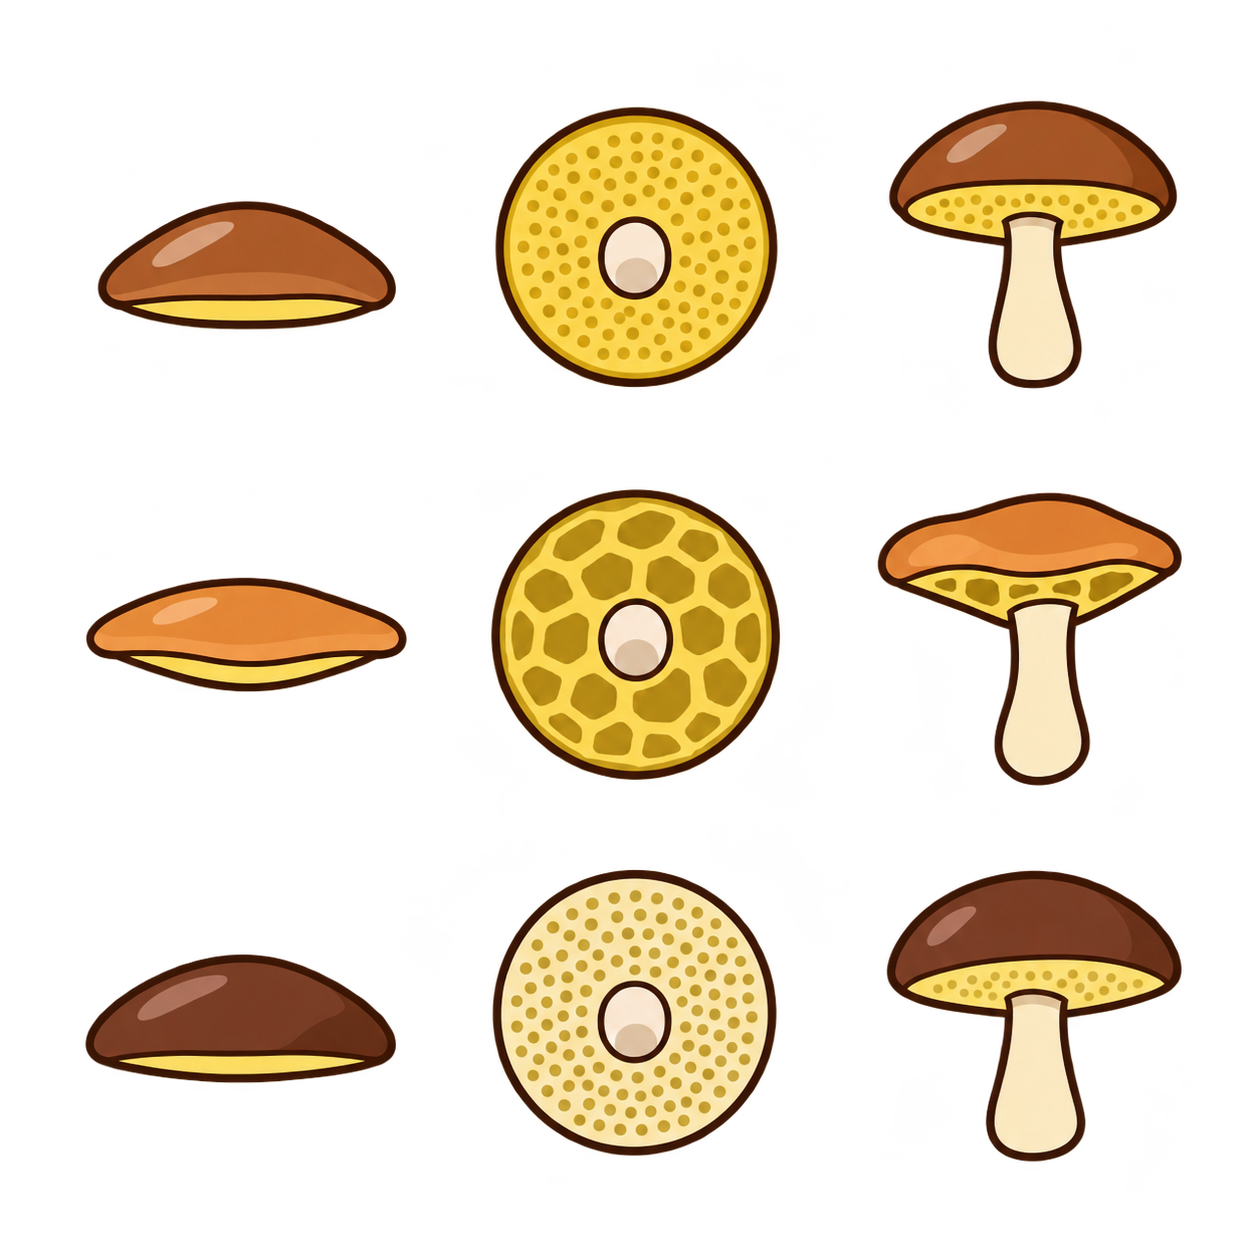
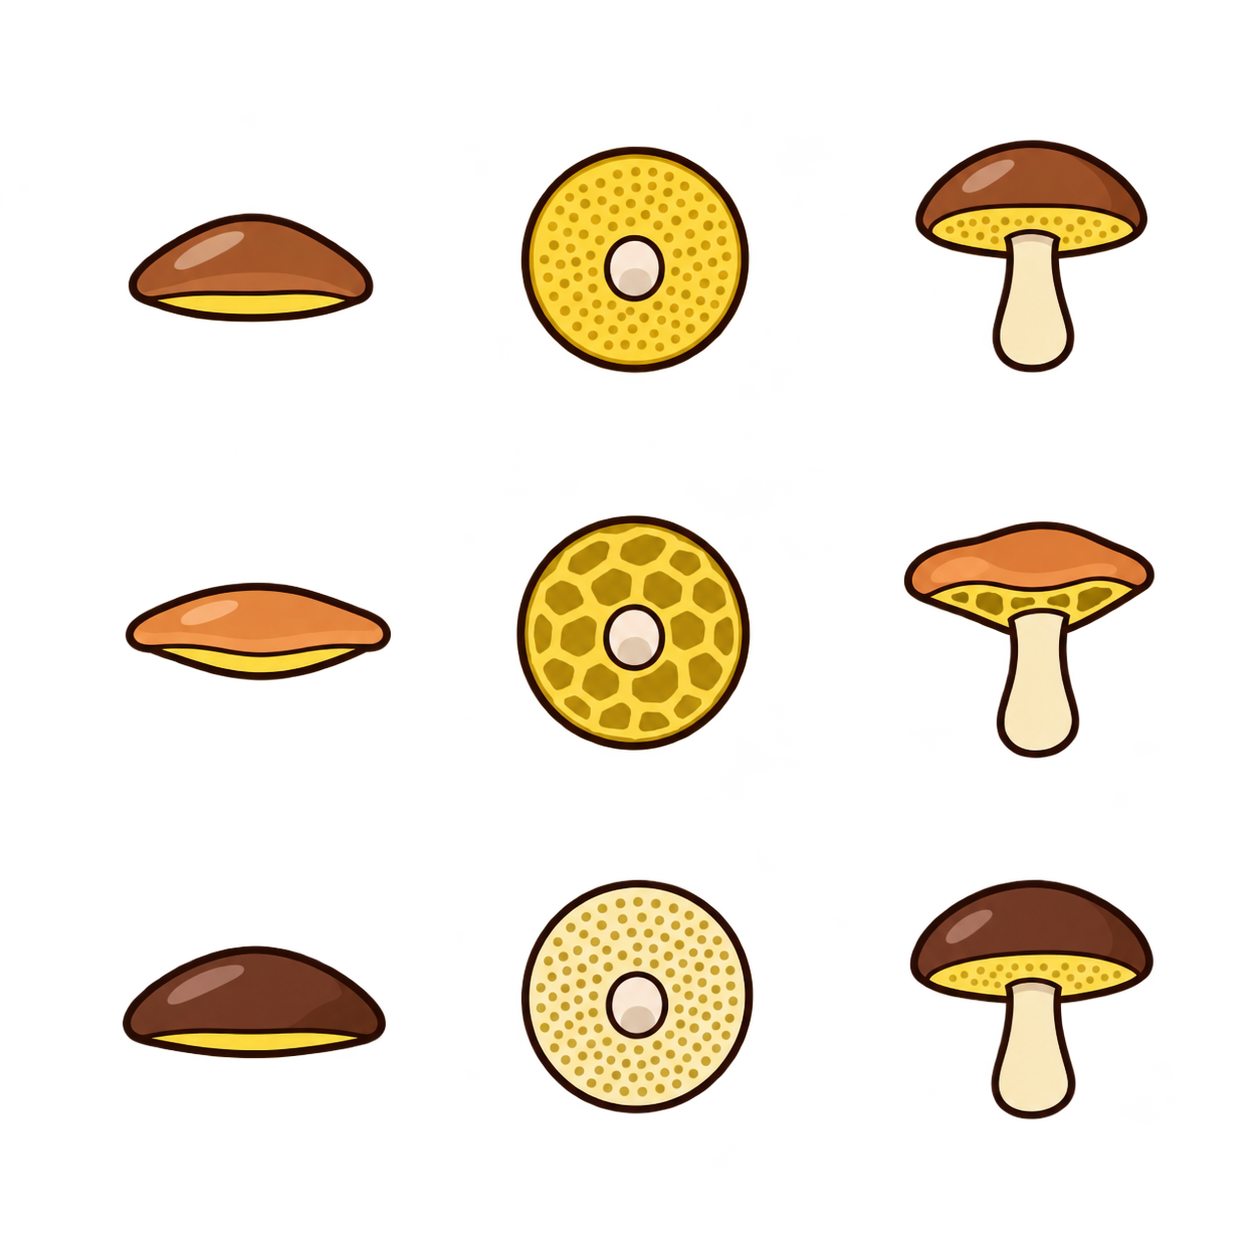
Uniforma la scala della tavola14 e aggiorna subito la bozza

diff --git a/incoming/bozze/STATO.md b/incoming/bozze/STATO.md
@@ -17,7 +17,7 @@ Bozze correnti per revisione. Le versioni definitive sono separate in incoming/i
 | icone/tavola-11.png | edulis, pinophilus, aereus | ok | QA anatomica completata; dubbi dei dati da leggere in NOTE. |
 | icone/tavola-12.png | aestivalis, tylopilus-felleus, caloboletus-calopus | ok | QA anatomica completata; dubbi dei dati da leggere in NOTE. |
 | icone/tavola-13.png | rubroboletus-satanas, caloboletus-radicans, neoboletus-luridiformis | ok | QA anatomica completata; dubbi dei dati da leggere in NOTE. |
-| icone/tavola-14.png | suillus, suillus-bovinus, imleria-badia | ok | QA anatomica completata; dubbi dei dati da leggere in NOTE. |
+| icone/tavola-14.png | suillus, suillus-bovinus, imleria-badia | ok | QA conclusa; scala ridotta per uniformarla alla tavola1. Dubbi dati nelle NOTE. |
 | icone/tavola-15.png | virescens, russula-heterophylla, russula-aeruginea | ok | QA finale conclusa; copia definitiva disponibile. |
 | icone/tavola-16.png | russula-olivacea, russula-aurea, nuda | ok | QA finale conclusa; gambo nuda neutro per colore non specificato, limite nelle NOTE. |
 | icone/tavola-17.png | lactarius-deliciosus, lactarius-deterrimus, laccaria-amethystina | ok | QA anatomica completata; dubbi dei dati da leggere in NOTE. |
